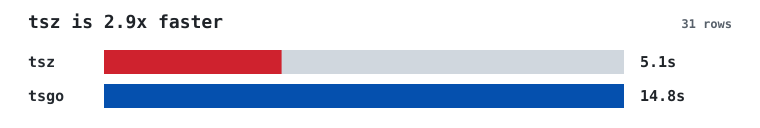
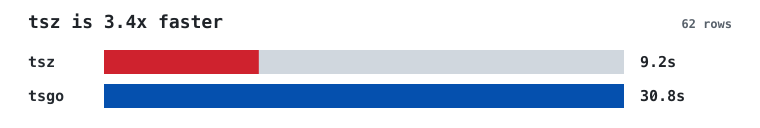
fix(website): count all successful micro cases + auto-refresh README image
The homepage "Sum across N successful micro benchmark cases" and the README
perf image excluded every fixture under 200 lines via three duplicated
isTinyBenchmark filters, so the count (40) undercounted the real micro set and
the headline ratio omitted short cases. Drop the tiny filter in all three
places — homepage mean chart, /benchmarks/micro/ page, and the README image
generator — so every successful non-project case counts (snapshot: 40 -> 62).

Also add a scheduled workflow that regenerates the committed README benchmark
image + stats from the latest published data and opens a PR, so the asset can
no longer drift stale (main is merge-queue protected, so it cannot push
directly). Regenerate the PNGs here too.

diff --git a/crates/tsz-website/src/_data/benchmark_data.js b/crates/tsz-website/src/_data/benchmark_data.js
@@ -534,8 +534,6 @@ function normalizedFixtureSources(compatibility) {
     .slice(0, 4);
 }
 
-const TINY_BENCHMARK_MAX_LINES = 200;
-
 function withExpectedProjectRows(results) {
   const rows = Array.isArray(results) ? results.slice() : [];
   const existingNames = new Set(rows.map((row) => row?.name).filter(Boolean));
@@ -863,11 +861,6 @@ function loadBenchmarks() {
   return null;
 }
 
-function isTinyBenchmark(lines) {
-  const size = Number(lines);
-  return Number.isFinite(size) && size < TINY_BENCHMARK_MAX_LINES;
-}
-
 function categoryFor(name, lines) {
   if (name === "large-ts-repo" || name === "nextjs") return "Projects: large repositories";
   const projectRow = PROJECT_ROWS_BY_NAME[name];
@@ -879,7 +872,6 @@ function categoryFor(name, lines) {
   if (name.startsWith("utility-types/")) return "Single file: utility-types";
   if (name.startsWith("ts-toolbelt/")) return "Single file: ts-toolbelt";
   if (name.startsWith("ts-essentials/")) return "Single file: ts-essentials";
-  if (isTinyBenchmark(lines)) return "Tiny File Benchmarks";
   if (/Recursive utility aliases|Indexed access hotspot|Remapped accessor hotspot|Conditional infer hotspot|Object spread hotspot|Contextual callback hotspot/i.test(name)) {
     return "Project Hotspot Microbenchmarks";
   }
@@ -950,10 +942,6 @@ function categoryMeta(category) {
       description: "Real-world ts-essentials file-level benchmark set from pinned snapshot.",
       repo: "https://github.com/ts-essentials/ts-essentials",
       repoLabel: "ts-essentials/ts-essentials",
-    },
-    "Tiny File Benchmarks": {
-      title: "Tiny files",
-      description: "Small fixture files moved below the fold.",
     },
     "General Benchmarks": {
       title: "Compiler scenarios",
@@ -1035,7 +1023,6 @@ function benchmarkUrl(row) {
 function benchmarkKind(category) {
   if (isProjectCategory(category)) return "project";
   if (isExternalLibraryCategory(category)) return "library file";
-  if (category === "Tiny File Benchmarks") return "startup";
   if (category === "Project Hotspot Microbenchmarks") return "hotspot";
   if (category === "Solver Stress Tests") return "solver stress";
   if (category === "Synthetic Type Workloads") return "synthetic";
@@ -1445,7 +1432,6 @@ function buildGroupedBenchmarks(data) {
     "Synthetic Type Workloads",
     "Project Hotspot Microbenchmarks",
     "Solver Stress Tests",
-    "Tiny File Benchmarks",
   ];
 
   const categories = [...grouped.keys()].sort((a, b) => {
@@ -1505,8 +1491,8 @@ function categoryTitle(category) {
 
 function categoryBelongsToMode(category, mode) {
   if (mode === "projects") return isProjectCategory(category);
-  if (mode === "micro") return !isProjectCategory(category) && category !== "Tiny File Benchmarks";
-  return category !== "Tiny File Benchmarks";
+  if (mode === "micro") return !isProjectCategory(category);
+  return true;
 }
 
 function failedBelongsToMode(row, mode) {

diff --git a/crates/tsz-website/src/_data/benchmark_mean_chart.js b/crates/tsz-website/src/_data/benchmark_mean_chart.js
@@ -24,30 +24,17 @@ function hasSuccessfulTiming(row) {
   );
 }
 
-const TINY_BENCHMARK_MAX_LINES = 200;
 const PROJECT_BENCHMARK_NAMES = new Set(REQUIRED_PROJECT_ROWS);
-const SINGLE_FILE_BENCHMARK_PREFIXES = [
-  "utility-types/",
-  "ts-toolbelt/",
-  "ts-essentials/",
-];
-
-function isTinyBenchmark(row) {
-  const size = Number(row?.lines);
-  return Number.isFinite(size) && size < TINY_BENCHMARK_MAX_LINES;
-}
 
 function isProjectBenchmark(row) {
   return PROJECT_BENCHMARK_NAMES.has(String(row?.name || ""));
 }
 
-function isSingleFileBenchmark(row) {
-  const name = String(row?.name || "");
-  return SINGLE_FILE_BENCHMARK_PREFIXES.some((prefix) => name.startsWith(prefix));
-}
-
+// A micro benchmark is any timed case that is not a whole-project row. We do
+// not exclude short fixtures: every successful non-project case counts toward
+// the micro sum, so the homepage total matches the /benchmarks/micro/ page.
 function isMicroBenchmark(row) {
-  return !isProjectBenchmark(row) && (!isTinyBenchmark(row) || isSingleFileBenchmark(row));
+  return !isProjectBenchmark(row);
 }
 
 function loadBenchmarks() {
